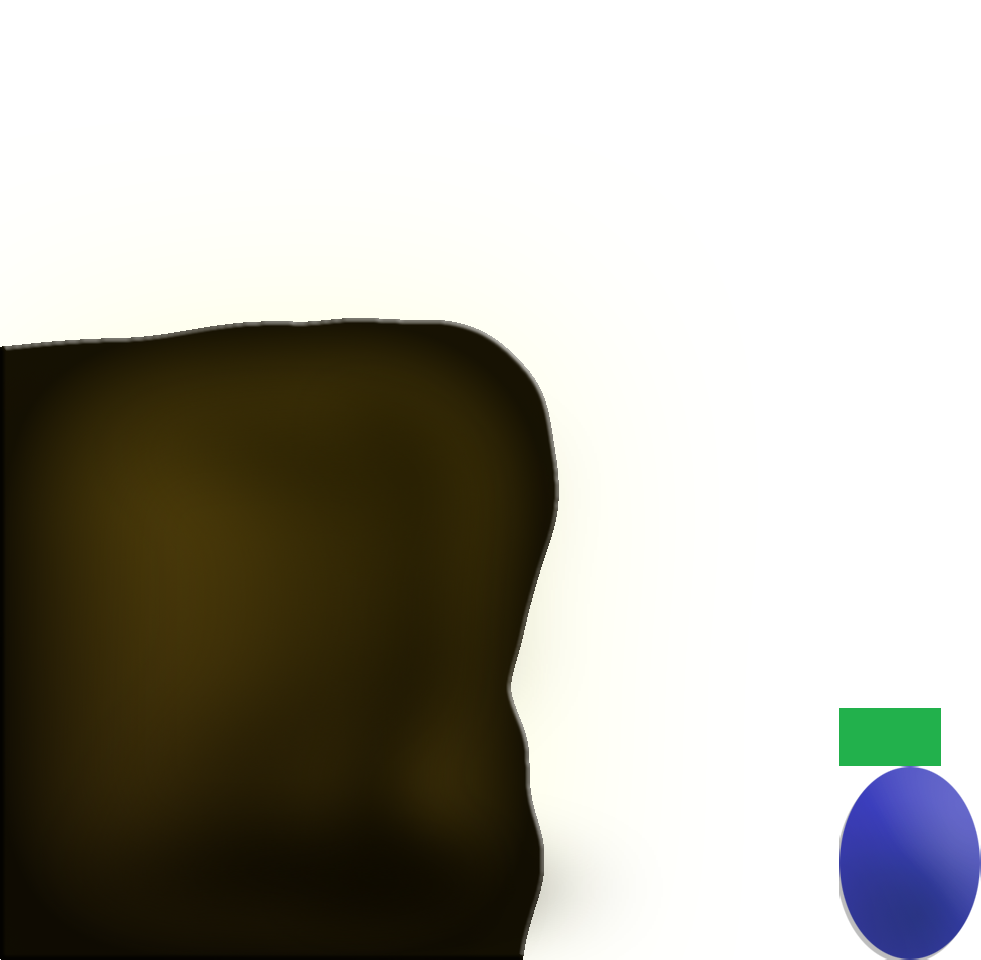
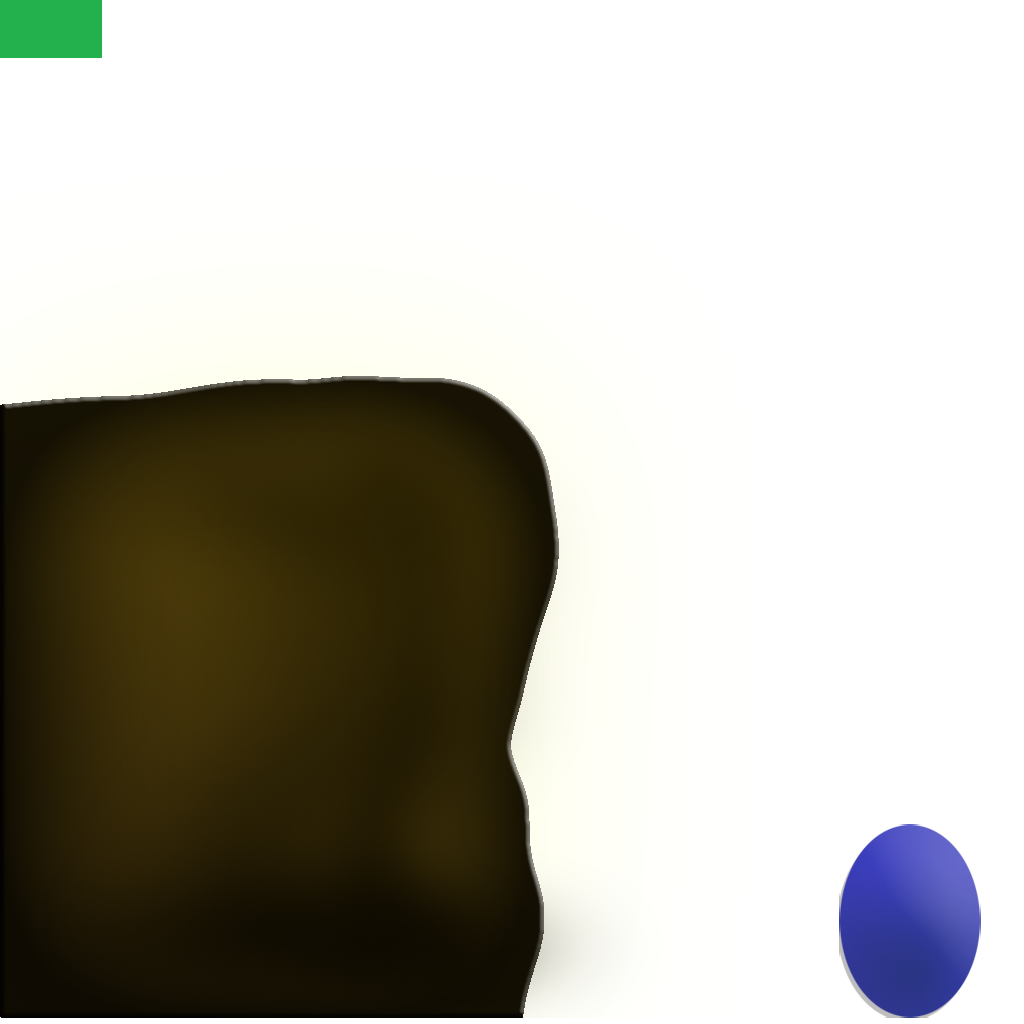
Fixed eggspeed to depend on screensize

Changed region(s): [[0.0, 0.3125, 0.581, 1.0], [0.7951, 0.7188, 1.0, 1.0], [0.0, 0.0, 0.1223, 0.0625]]

diff --git a/egg-pillow/src/com/eggpillow/screens/GameScreen.java b/egg-pillow/src/com/eggpillow/screens/GameScreen.java
@@ -42,7 +42,6 @@ public class GameScreen implements Screen {
 	private TextureAtlas atlas;
 	private AtlasRegion eggRegion;
 	private AtlasRegion pillowRegion;
-	//private AtlasRegion cliffRegion;
 
 	// Sprites
 	private Pillow pillow;
@@ -54,10 +53,10 @@ public class GameScreen implements Screen {
 	/** In percent of screen height */
 	private final static float EGG_HEIGHT = 0.15f;
 	/** In percent of screen width */
-	private final static float EGG_WIDTH = 0.058f; 
+	private final static float EGG_WIDTH = 0.058f;
 	/** In percent of screen width */
 	private final static float CLIFF_HEIGHT = 0.5f;
-	
+
 	private final static String BACKGROUND_IMAGE = "img/game_background.png";
 
 	/**
@@ -173,24 +172,24 @@ public class GameScreen implements Screen {
 	public void show() {
 		batch = new SpriteBatch();
 
-		// TESTING
+		// TODO textureAtlas or texture
 		atlas = new TextureAtlas(Gdx.files.internal("gameImg/EggPillow.pack"));
 		eggRegion = atlas.findRegion("game_egg");
 		pillowRegion = atlas.findRegion("game_pillow");
-		// /testing
 
 		// Setup pillow
-		pillow = new Pillow(.3f, .95f, -.08f);
-		
+		pillow = new Pillow(.3f, .95f, -.08f, atlas);
+
 		// Setup cliff
-		cliff = new Cliff(CLIFF_HEIGHT);
+		cliff = new Cliff(CLIFF_HEIGHT, atlas);
 
 		// Setup eggs
 		eggs = new ArrayList<Egg>();
 		for (int i = 0; i < 100; i++) { // Add 100 eggs
-			eggs.add(new Egg(pillow, cliff, EGG_WIDTH, EGG_HEIGHT));
+			eggs.add(new Egg(pillow, cliff, EGG_WIDTH, EGG_HEIGHT, atlas));
 		}
 
+		//background = new Texture(BACKGROUND_IMAGE);
 		background = new Texture(BACKGROUND_IMAGE);
 		inputHandler = new InputHandlerGame(pillow, game);
 		Gdx.input.setInputProcessor(inputHandler);
@@ -249,9 +248,11 @@ public class GameScreen implements Screen {
 		batch.draw(pTexture, 0, 0);
 		font.setColor(1.0f, 1.0f, 1.0f, 1.0f);
 		font.setScale(3f);
-		batch.draw(eggRegion, Gdx.graphics.getWidth() / 2, Gdx.graphics.getHeight() * 3 / 4);
-		batch.draw(pillowRegion, Gdx.graphics.getWidth() / 2, Gdx.graphics.getHeight() / 4,
-				Gdx.graphics.getWidth() * 0.1f, Gdx.graphics.getHeight() * 0.1f);
+		batch.draw(eggRegion, Gdx.graphics.getWidth() / 2,
+				Gdx.graphics.getHeight() * 3 / 4);
+		batch.draw(pillowRegion, Gdx.graphics.getWidth() / 2,
+				Gdx.graphics.getHeight() / 4, Gdx.graphics.getWidth() * 0.1f,
+				Gdx.graphics.getHeight() * 0.1f);
 
 		font.draw(batch, "Here is the pillow", Gdx.graphics.getWidth() / 2
 				+ Gdx.graphics.getWidth() * 0.2f, Gdx.graphics.getHeight() / 4);
@@ -266,12 +267,15 @@ public class GameScreen implements Screen {
 	private void drawPaus(SpriteBatch batch) {
 		font.setColor(Color.BLACK);
 		font.setScale(5f);
-		batch.draw(pTexture, 0f, 0f, (float)Gdx.graphics.getWidth(), (float)Gdx.graphics.getHeight(), 0, 0, 1, 1, false, false);
-		font.draw(batch, "Press screen to resume game", Gdx.graphics.getWidth() / 2 * 0.8f, Gdx.graphics.getHeight() / 2);
+		batch.draw(pTexture, 0f, 0f, (float) Gdx.graphics.getWidth(),
+				(float) Gdx.graphics.getHeight(), 0, 0, 1, 1, false, false);
+		font.draw(batch, "Press screen to resume game",
+				Gdx.graphics.getWidth() / 2 * 0.8f,
+				Gdx.graphics.getHeight() / 2);
 	}
-	
+
 	/**
-	 * Circle is off 
+	 * TODO Circle is off
 	 */
 	private void createInstructionTexture() {
 		Pixmap pixmap = new Pixmap(Gdx.graphics.getWidth(),
@@ -280,10 +284,17 @@ public class GameScreen implements Screen {
 		pixmap.fill();
 		pixmap.setColor(Color.RED);
 		// TODO fix
-		pixmap.drawCircle(Gdx.graphics.getWidth() / 2 + (int)eggRegion.getRegionHeight()/2, Gdx.graphics.getHeight() * 3 / 4 - (int)eggRegion.getRegionHeight() / 2, (int)(eggRegion.getRegionWidth()));
+		pixmap.drawCircle(
+				Gdx.graphics.getWidth() / 2 + (int) eggRegion.getRegionHeight()
+						/ 2,
+				Gdx.graphics.getHeight() * 3 / 4
+						- (int) eggRegion.getRegionHeight() / 2,
+				(int) (eggRegion.getRegionWidth()));
 		// TODO fix
-		pixmap.drawCircle(Gdx.graphics.getWidth() / 2 + (int)pillow.getWidth()/2, Gdx.graphics.getHeight() / 4 - (int)pillow.getHeight() / 2, (int)(pillow.getWidth()));
-		
+		pixmap.drawCircle(Gdx.graphics.getWidth() / 2 + (int) pillow.getWidth()
+				/ 2, Gdx.graphics.getHeight() / 4 - (int) pillow.getHeight()
+				/ 2, (int) (pillow.getWidth()));
+
 		pTexture = new Texture(pixmap);
 		pixmap.dispose();
 	}

diff --git a/egg-pillow/src/com/eggpillow/Pillow.java b/egg-pillow/src/com/eggpillow/Pillow.java
@@ -1,8 +1,8 @@
 package com.eggpillow;
 
 import com.badlogic.gdx.Gdx;
-import com.badlogic.gdx.graphics.Texture;
 import com.badlogic.gdx.graphics.g2d.Sprite;
+import com.badlogic.gdx.graphics.g2d.TextureAtlas;
 import com.eggpillow.screens.GameScreen;
 
 /**
@@ -18,8 +18,8 @@ public class Pillow extends Sprite implements Touchable {
 	private float limitXLeft; // In percent of screen width
 	private float limitXRight; // In percent of sreen width
 	
-	private final static float WIDTH = .1f;
-	private final static float HEIGHT = .1f;
+	private final static float WIDTH = .1f; // In percent of screen width
+	private final static float HEIGHT = .1f; // In percent of screen height
 	
 	private float oldX, oldY, xSpeed, ySpeed;
 
@@ -38,8 +38,8 @@ public class Pillow extends Sprite implements Touchable {
 	 * @param height
 	 * 			  the height (in percent of screen height)
 	 */
-	public Pillow(float limitXLeft, float limitXRight, float yLevel) {
-		super(new Texture("gameImg/game_pillow.png"));
+	public Pillow(float limitXLeft, float limitXRight, float yLevel, TextureAtlas atlas) {
+		super(atlas.findRegion("game_pillow"));
 		setSize(Gdx.graphics.getWidth() * WIDTH, Gdx.graphics.getHeight() * HEIGHT);
 		if (yLevel < 0) {
 			locked = false;
@@ -143,5 +143,17 @@ public class Pillow extends Sprite implements Touchable {
 	public float getRightLimit(float y) {
 		// TODO Fix limits of pillow
 		return this.getWidth();
+	}
+
+	@Override
+	public float getXSpeed() {
+		// TODO Auto-generated method stub
+		return 0;
+	}
+
+	@Override
+	public float getYSpeed() {
+		// TODO Auto-generated method stub
+		return 0;
 	}
 }

diff --git a/egg-pillow/src/com/eggpillow/Cliff.java b/egg-pillow/src/com/eggpillow/Cliff.java
@@ -1,8 +1,8 @@
 package com.eggpillow;
 
 import com.badlogic.gdx.Gdx;
-import com.badlogic.gdx.graphics.Texture;
 import com.badlogic.gdx.graphics.g2d.Sprite;
+import com.badlogic.gdx.graphics.g2d.TextureAtlas;
 
 public class Cliff extends Sprite implements Touchable {
 	private final static float WIDTH = .3f;
@@ -12,8 +12,8 @@ public class Cliff extends Sprite implements Touchable {
 	 * Constructor for Cliff.
 	 * @param height percent of height of screen where cliff top should be
 	 */
-	public Cliff(float height) {
-		super(new Texture("gameImg/game_cliff.png"));
+	public Cliff(float height, TextureAtlas atlas) {
+		super(atlas.findRegion("game_cliff"));
 		setSize(1.5f * WIDTH * Gdx.graphics.getWidth(), 1.5f * HEIGHT * Gdx.graphics.getHeight());
 		setX(0);
 		setY((height - HEIGHT) * Gdx.graphics.getHeight());
@@ -39,5 +39,15 @@ public class Cliff extends Sprite implements Touchable {
 	@Override
 	public float getRightLimit(float y) {
 		return this.getWidth();
+	}
+
+	@Override
+	public float getXSpeed() {
+		return 0;
+	}
+
+	@Override
+	public float getYSpeed() {
+		return 0;
 	}
 }

diff --git a/egg-pillow/src/com/eggpillow/Touchable.java b/egg-pillow/src/com/eggpillow/Touchable.java
@@ -45,4 +45,10 @@ public interface Touchable {
 	float getHeight();
 	float getX();
 	float getY();
+	
+	//Speed
+	/** percent of screen width / sec */
+	float getXSpeed();
+	/** percent of screen height / sec */
+	float getYSpeed();
 }
